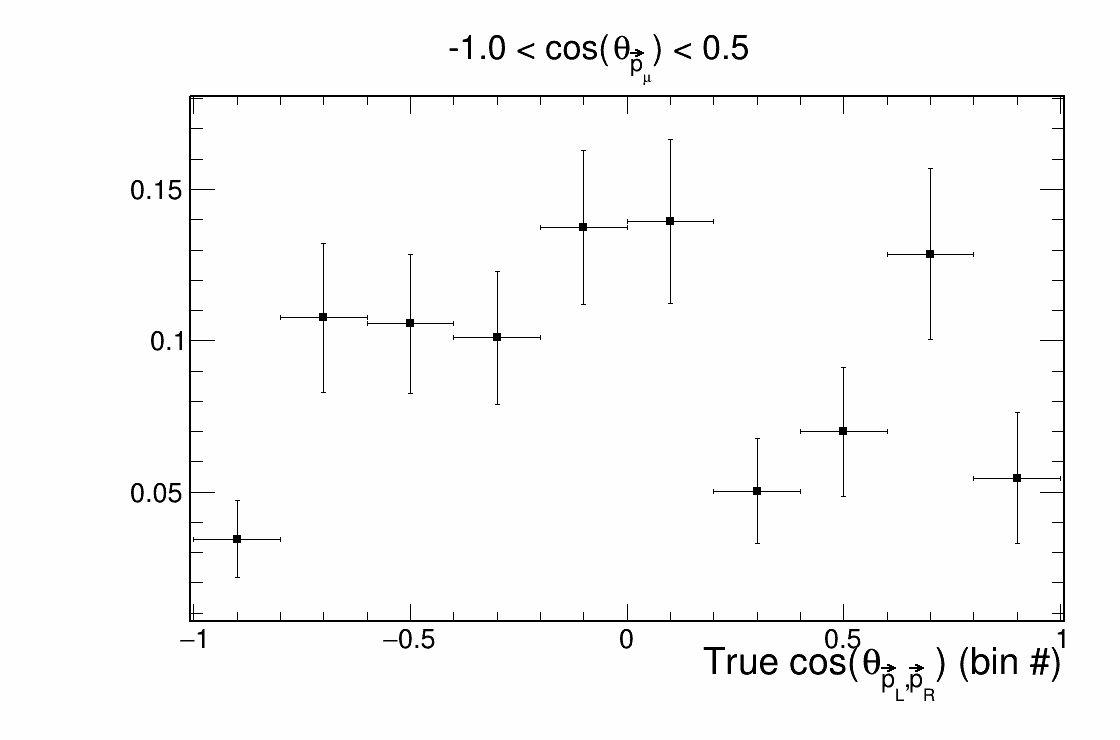
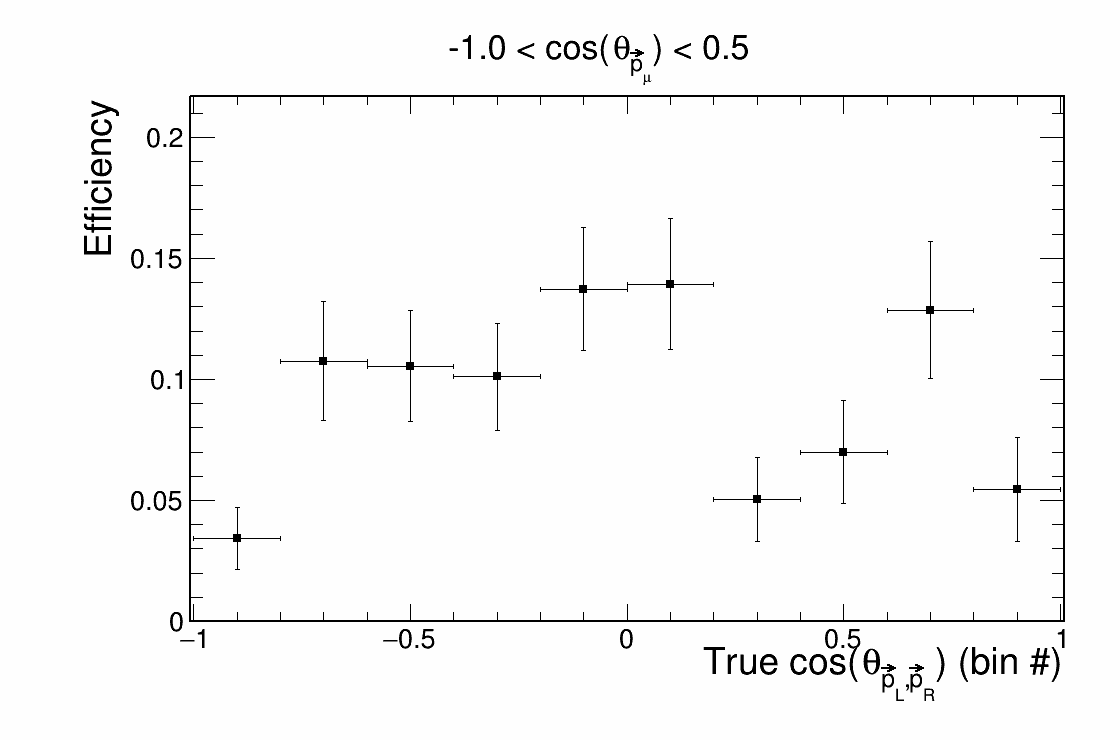
Edit efficiency plot style

diff --git a/CAFAnaAnalysis/Scripts/SelectionEfficiency.C b/CAFAnaAnalysis/Scripts/SelectionEfficiency.C
@@ -189,7 +189,7 @@ void SelectionEfficiency() {
 
                 // Create efficiency plot
                 TEfficiency* Eff = new TEfficiency(*SlicedRecoTrueHisto, *SlicedTrueHisto);
-                Eff->SetTitle((";True " + VarLabels.at(i) + ";").c_str());
+                Eff->SetTitle((";True " + VarLabels.at(i) + ";Efficiency").c_str());
 
                 PlotCanvas->cd();
                 Eff->SetMarkerStyle(21);
@@ -197,6 +197,8 @@ void SelectionEfficiency() {
                 Eff->Draw("AP");
                 gPad->Update();
                 Eff->GetPaintedGraph()->GetXaxis()->SetRangeUser(SerialSliceBinning.at(0),SerialSliceBinning.at(SerialSliceBinning.size() - 1));
+                double max = Eff->GetPaintedGraph()->GetYaxis()->GetBinUpEdge(Eff->GetPaintedGraph()->GetYaxis()->GetNbins());
+                Eff->GetPaintedGraph()->GetYaxis()->SetRangeUser(0., max*1.2);
 
                 // Slice label
                 TLatex *textSlice = new TLatex();
@@ -212,15 +214,16 @@ void SelectionEfficiency() {
         } else {
             // Create efficiency plot
             TEfficiency* Eff = new TEfficiency(*RecoTrueHisto, *TrueHisto);
-            Eff->SetTitle((";True " + VarLabels.at(i) + ";").c_str());
+            Eff->SetTitle(("All events;True " + VarLabels.at(i) + ";Efficiency").c_str());
 
             PlotCanvas->cd();
             Eff->SetMarkerStyle(21);
             Eff->SetMarkerColor(kBlack);
-            Eff->SetTitle("All events");
             Eff->Draw("AP");
             gPad->Update();
             Eff->GetPaintedGraph()->GetXaxis()->SetRangeUser(VarBins.at(i).Min(),VarBins.at(i).Max());
+            double max = Eff->GetPaintedGraph()->GetYaxis()->GetBinUpEdge(Eff->GetPaintedGraph()->GetYaxis()->GetNbins());
+            Eff->GetPaintedGraph()->GetYaxis()->SetRangeUser(0., max*1.2);
 
             // Save as png
             PlotCanvas->SaveAs(dir+"/Figs/CAFAna/Efficiency/"+PlotNames[i]+".png");
